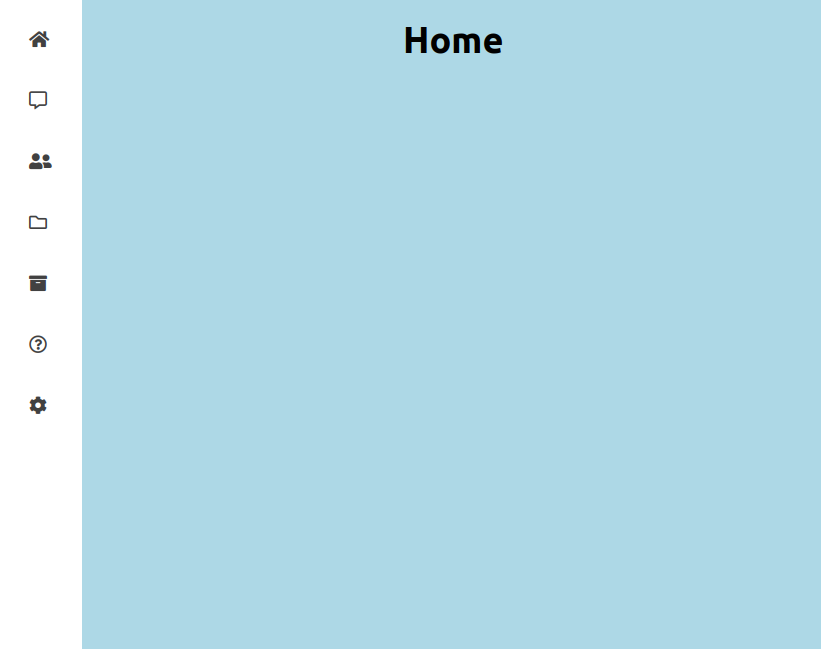
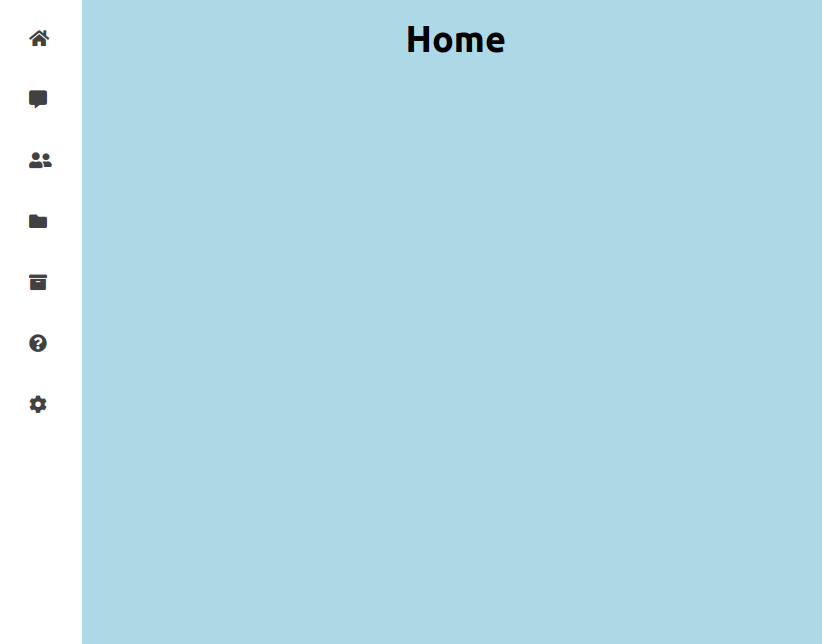
fix details

diff --git a/index.html b/index.html
@@ -18,19 +18,19 @@
             <a href="#"><i class="fas fa-home"></i></a>
           </li>
           <li class="nav-item">
-            <a href="#"><i class="far fa-comment-alt"></i></a>
+            <a href="#"><i class="fas fa-comment-alt"></i></a>
           </li>
           <li class="nav-item">
             <a href="#"><i class="fas fa-user-friends"></i></a>
           </li>
           <li class="nav-item">
-            <a href="#"><i class="far fa-folder"></i></a>
+            <a href="#"><i class="fas fa-folder"></i></a>
           </li>
           <li class="nav-item">
             <a href="#"><i class="fas fa-archive"></i></a>
           </li>
           <li class="nav-item">
-            <a href="#"><i class="far fa-question-circle"></i></a>
+            <a href="#"><i class="fas fa-question-circle"></i></a>
           </li>
           <li class="nav-item">
             <a href="#"><i class="fas fa-cog"></i></a>
